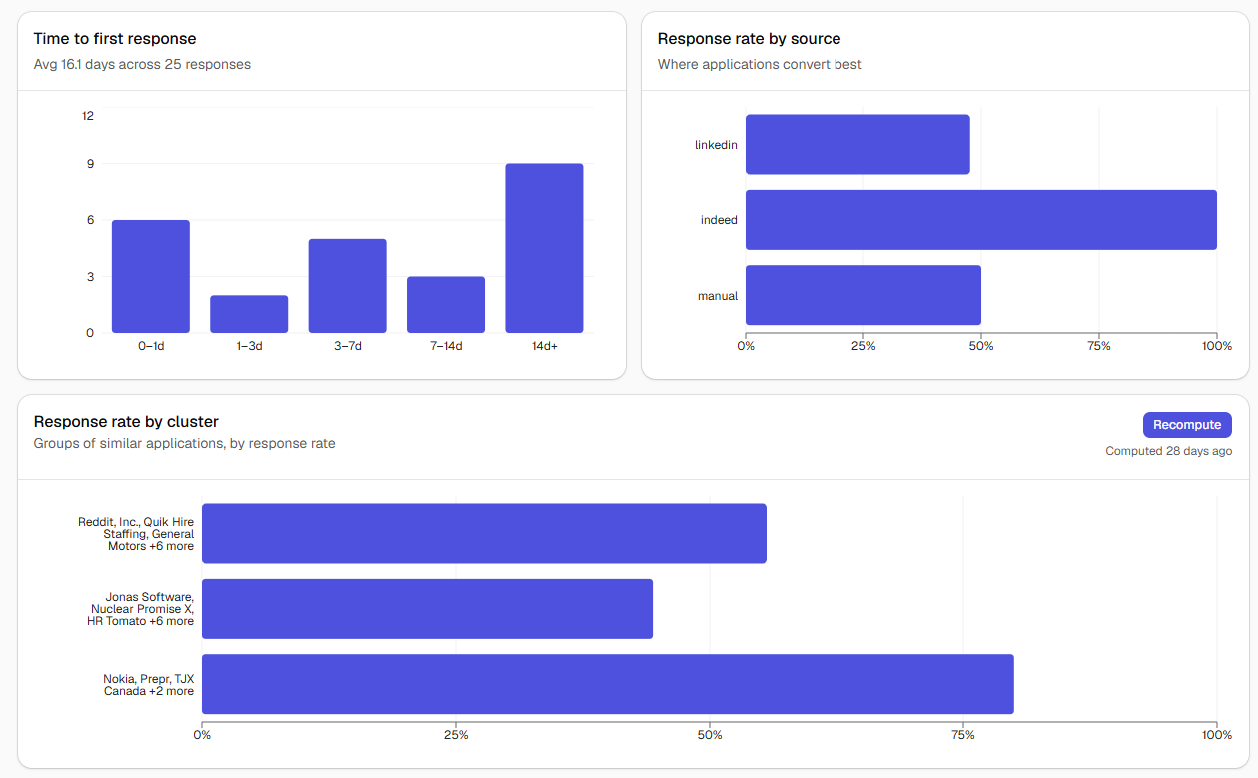
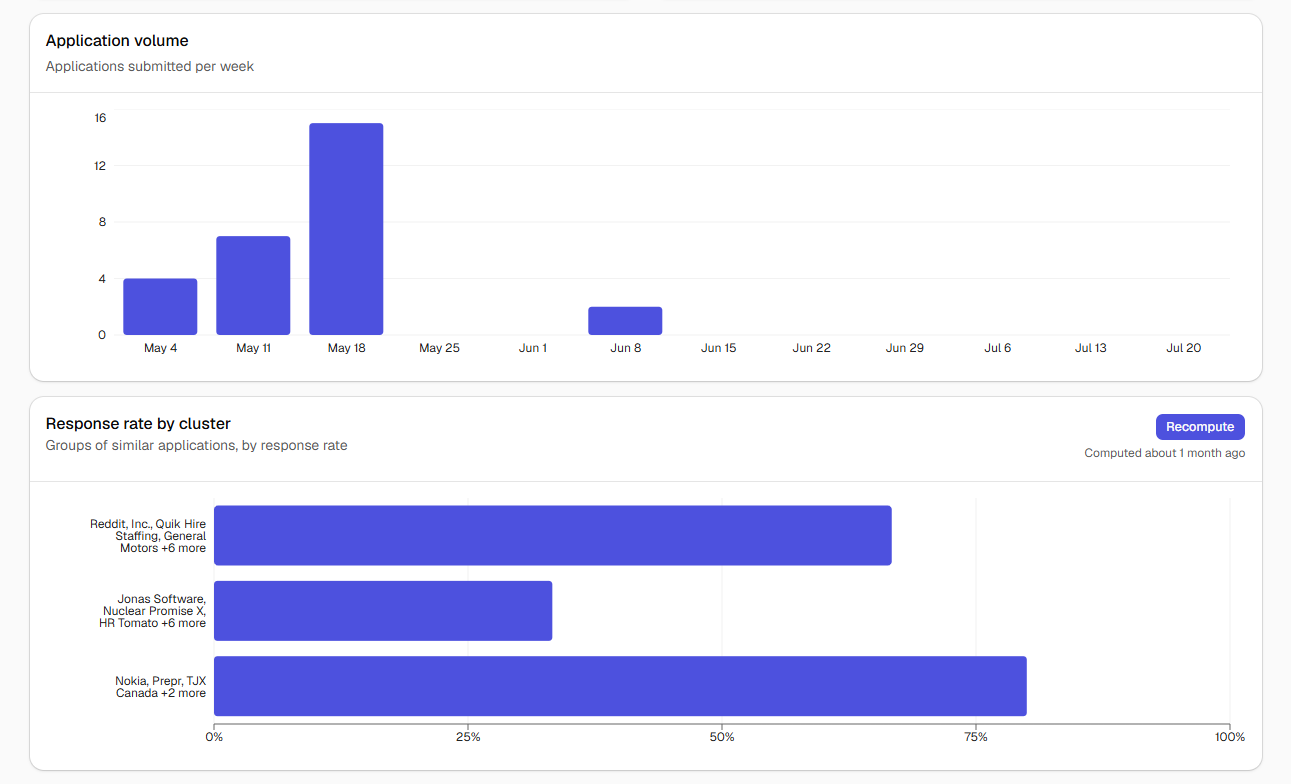
docs(repo): refresh analytics, resume, and settings screenshots
Recapture the analytics views for the reordered page (core metrics first, application volume and clusters below) and update the surrounding copy and alt text to match. Refresh the resume and settings shots, which predated the List nav item.

diff --git a/README.md b/README.md
@@ -43,11 +43,11 @@ Existing trackers (Huntr, Teal, Simplify) treat the application list as the arti
 ## Screenshots
 
 ### Analytics
-Weekly application-volume trend, response rate, and funnel by status up top; time-to-first-response, response rate by source, and per-cluster response rate below. Date-range filter (shown on "All time").
+Response rate, funnel by status, time-to-first-response, and response rate by source up top; the weekly application-volume trend and per-cluster response rate below. Date-range filter (shown on "All time").
 
-![Analytics page top: application-volume chart, response rate, and funnel by status](./docs/screenshots/02-analytics.png)
+![Analytics page top: response rate, funnel by status, time-to-first-response histogram, and response rate by source](./docs/screenshots/02-analytics.png)
 
-![Analytics page continued: time-to-first-response histogram, response rate by source, and response rate by cluster](./docs/screenshots/10-analytics-detail.png)
+![Analytics page continued: weekly application-volume chart and response rate by cluster](./docs/screenshots/10-analytics-detail.png)
 
 ### Application list
 Searchable, filterable, sortable table of every application; rows link to the detail view.
